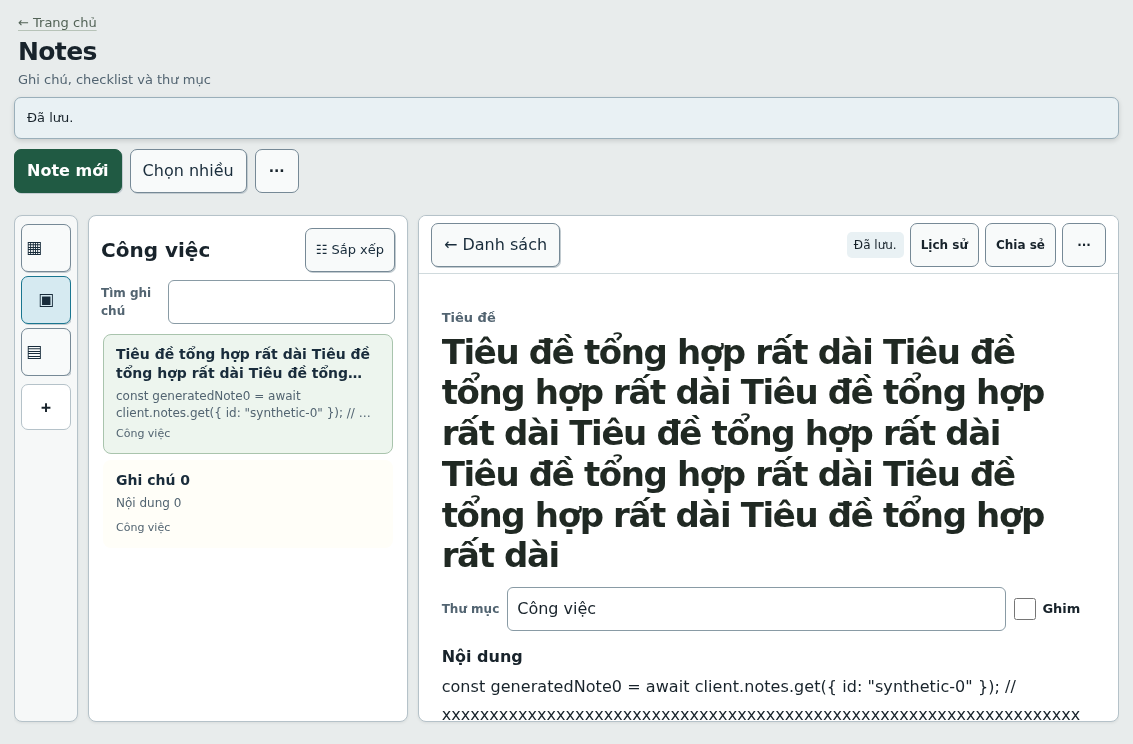
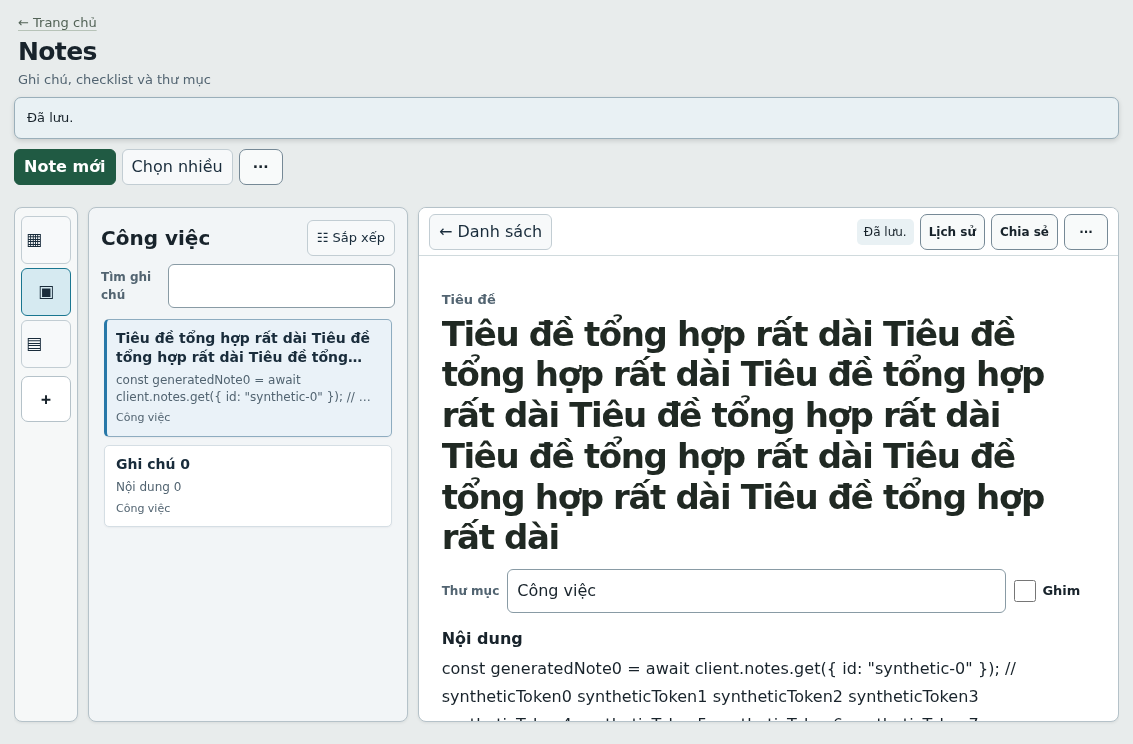
feat(ui): polish responsive notes experience
Polish responsive Notes controls, note cards, and overflow-safe action menus. Add production UI evidence and robust cross-viewport browser checks.

diff --git a/public/app.css b/public/app.css
@@ -1,14 +1,15 @@
 :root{font-family:system-ui,sans-serif;color:#18232b;background:#e8ecec;line-height:1.5;--ink:#18232b;--muted:#526471;--line:#c8d2d7;--paper:#fff;--green:#205a43;--focus:#007fa7;--safe-t:env(safe-area-inset-top,0px);--safe-b:env(safe-area-inset-bottom,0px);--keyboard-inset:0px;--nav-height:58px;color-scheme:light}
 *{box-sizing:border-box}html,body{width:100%;height:100%;margin:0}body{min-width:320px;overflow:hidden;background:#e8ecec}main{height:100dvh;min-height:0;display:flex;flex-direction:column;gap:8px;margin:0;padding:10px 14px 12px;max-width:none;overflow:hidden}header h1{margin:0;font-size:25px;line-height:1.2;letter-spacing:-.025em}header p{margin:3px 0 0;color:var(--muted);font-size:13px}.app-header{flex:0 0 auto;padding:0 4px}.home-link{display:inline-block;margin:0 0 4px;color:#536357;font-size:13px;text-decoration:underline;text-decoration-color:#b7c3b8;text-underline-offset:3px}.home-link:hover{color:var(--green)}a{color:#064f85}
-button,input,textarea,select{font:inherit}button{min-width:44px;min-height:44px;padding:8px 12px;border:1px solid #768996;border-radius:7px;background:#f8fafa;color:#192c3b;box-shadow:1px 1px 0 #c2cbd0;cursor:pointer}button:disabled{opacity:.55;cursor:default}button:hover:not(:disabled){background:#e1eef4}button:focus-visible,input:focus-visible,textarea:focus-visible,select:focus-visible,summary:focus-visible,a:focus-visible{outline:3px solid var(--focus);outline-offset:2px}input:not([type=checkbox]),textarea,select{width:100%;min-width:0;padding:9px;border:1px solid #899ba5;border-radius:6px;background:#fff;color:var(--ink)}input[type=checkbox]{width:22px;height:22px;vertical-align:middle;accent-color:#176077}textarea{overflow-wrap:anywhere;white-space:pre-wrap;word-break:break-word}label{display:block;margin:8px 0 4px;font-weight:550}summary{min-height:44px;display:flex;align-items:center;cursor:pointer;font-weight:600;list-style:none}summary::-webkit-details-marker{display:none}[hidden]{display:none!important}
+button,input,textarea,select{font:inherit}button{min-width:44px;min-height:44px;padding:7px 11px;border:1px solid #c2cdd3;border-radius:6px;background:#f7f9fa;color:#192c3b;box-shadow:none;cursor:pointer}button:disabled{opacity:.55;cursor:default}button:hover:not(:disabled){background:#e1eef4}button:focus-visible,input:focus-visible,textarea:focus-visible,select:focus-visible,summary:focus-visible,a:focus-visible{outline:3px solid var(--focus);outline-offset:2px}input:not([type=checkbox]),textarea,select{width:100%;min-width:0;padding:9px;border:1px solid #899ba5;border-radius:6px;background:#fff;color:var(--ink)}input[type=checkbox]{width:22px;height:22px;vertical-align:middle;accent-color:#176077}textarea{overflow-wrap:anywhere;white-space:pre-wrap;word-break:break-word}label{display:block;margin:8px 0 4px;font-weight:550}summary{min-height:44px;display:flex;align-items:center;cursor:pointer;font-weight:600;list-style:none}summary::-webkit-details-marker{display:none}[hidden]{display:none!important}
 #sync-banner{position:relative;z-index:50;flex:0 0 auto;min-height:42px;display:flex;align-items:center;background:#e9f1f4;border:1px solid #9aafba;border-radius:7px;padding:7px 12px;margin:0;box-shadow:0 2px 5px #0002;font-size:13px}#sync-progress{position:absolute;left:0;right:0;top:0;height:4px;border-radius:6px 6px 0 0;background:linear-gradient(90deg,#b6d5e5 0%,#197690 45%,#b6d5e5 100%);background-size:200% 100%;animation:sync-moving 1.2s linear infinite}@keyframes sync-moving{to{background-position:-200% 0}}@media(prefers-reduced-motion:reduce){#sync-progress{animation:none;background:#197690}}
 #login{flex:0 0 auto;max-width:460px;margin:16px auto;padding:20px}#login form{display:grid;gap:6px}#login button{margin-top:8px}
-#workspace{position:relative;flex:1 1 auto;min-height:0;display:grid;grid-template-columns:232px minmax(300px,340px) minmax(0,1fr);grid-template-rows:auto auto minmax(0,1fr) auto;align-items:stretch;gap:10px;overflow:hidden}.workspace-toolbar{grid-column:1/-1;grid-row:1;min-height:48px;display:flex;align-items:center;gap:8px;flex-wrap:wrap;margin:0}.workspace-toolbar #new{background:#205a43;color:#fff;border-color:#205a43;font-weight:650}.workspace-toolbar #new:hover{background:#174432}.workspace-toolbar #select-mode[aria-pressed=true]{background:#d6eaf1;border-color:#197690}.action-menu{position:relative;margin:0;padding:0;border:0;border-radius:0;background:transparent}.action-menu>summary{min-width:44px;justify-content:center;padding:0 10px;border:1px solid #768996;border-radius:7px;background:#f8fafa;font-size:14px}.action-menu>summary:hover{background:#e1eef4}.action-menu[open]>summary{background:#d6eaf1}.menu-panel{position:absolute;z-index:70;right:0;top:calc(100% + 5px);width:min(310px,calc(100vw - 32px));max-height:min(70dvh,620px);overflow:auto;padding:8px;border:1px solid #9aafba;border-radius:9px;background:#fff;box-shadow:0 8px 26px #14212c38}.menu-panel>button{display:block;width:100%;min-height:44px;margin:3px 0;text-align:left}.workspace-toolbar .menu-panel{min-width:220px}.workspace-toolbar .menu-panel button{margin:2px 0}#draft-panel{grid-column:1/-1;grid-row:2;min-width:0;max-height:26vh;overflow:auto;margin:0;padding:5px 10px;border:1px solid #b5c2c9;border-radius:7px;background:#f6f8f8;font-size:13px}#draft-panel:not([hidden]){display:block}#draft-panel>summary{min-height:36px}#draft-panel p{margin:4px 0}#draft-list{max-height:18vh;overflow:auto}.draft-row{padding:8px 0;border-bottom:1px solid #d0dadd;display:flex;gap:8px;align-items:center;flex-wrap:wrap}.draft-row span{flex:1;min-width:150px}
-.layout{display:contents}.layout>aside,#list-pane,#editor,#editor-empty{grid-row:3;min-width:0;min-height:0;margin:0;border:1px solid #b5c2c9;border-radius:8px;background:#fff;box-shadow:0 1px 3px #14212c14}.layout>aside{grid-column:1;display:flex;flex-direction:column;gap:8px;overflow:auto;padding:10px;background:#f6f8f8}.layout>aside>label,.layout>aside>.search-field{margin:0}#folder-list{min-height:0;display:flex;flex-direction:column;gap:4px;overflow:auto}.folder-row{display:flex;align-items:stretch;min-width:0}.folder-row>button:first-child{flex:1;min-width:0;overflow-wrap:anywhere;text-align:left}.folder-row .folder-share-badge{flex:0 0 44px;width:44px;padding:6px;margin-left:4px;text-align:center;color:#176077}#folder-panel #folder-list>button{width:100%;margin:0;text-align:left}#folder-panel [aria-pressed=true]{background:#d6eaf1;border-color:#197690;font-weight:650}#folder-controls{flex:0 0 auto;padding:4px 7px;border:1px solid #b5c2c9;border-radius:7px;background:#fff}#folder-controls>button,#folder-controls>input,#folder-controls>select{margin-top:8px}#folder-controls label{display:flex;align-items:center;gap:8px;margin:10px 0}#folder-controls input[type=checkbox]{flex:0 0 22px;width:22px}
-#list-pane{grid-column:2;display:flex;flex-direction:column;padding:12px;overflow:hidden}.list-mobile-top{display:none}.list-heading{flex:0 0 auto;display:flex;align-items:center;justify-content:space-between;gap:8px;flex-wrap:wrap;margin-bottom:8px}.list-heading h2{margin:0;font-size:20px}.list-heading #sort-toggle{min-height:44px;padding:6px 10px;font-size:13px}.list-heading #sort-toggle[aria-expanded=true]{background:#d6eaf1;border-color:#197690}#sort-mode:not([hidden]){display:block;flex:0 0 auto;width:min(100%,280px);margin:0 0 8px auto}.search-field{flex:0 0 auto;display:flex;align-items:center;gap:8px;margin:0 0 8px;color:#526471;font-size:12px}.search-field input{min-height:44px}.grid{min-height:0;flex:1;display:flex;flex-direction:column;gap:6px;overflow:auto;overscroll-behavior:contain;padding:2px 2px 14px}.card{position:relative;display:flex;flex:0 0 auto;width:100%;min-width:0;min-height:88px;max-height:142px;flex-direction:column;align-items:stretch;gap:3px;padding:10px 12px;overflow:hidden;border:1px solid transparent;border-radius:8px;background:#fffef8;text-align:left;box-shadow:none}.card:hover{background:#f4f8f6}.card strong{display:-webkit-box;overflow:hidden;-webkit-box-orient:vertical;-webkit-line-clamp:2;font-size:14px;line-height:1.35;font-weight:650;overflow-wrap:anywhere;white-space:normal}.card p{flex:1;min-width:0;margin:2px 0;overflow:hidden;display:-webkit-box;-webkit-box-orient:vertical;-webkit-line-clamp:2;color:#526471;font-size:12px;line-height:1.4;overflow-wrap:anywhere;white-space:pre-wrap}.card small{display:block;overflow:hidden;color:#526471;font-size:11px;text-overflow:ellipsis;white-space:nowrap}.card[aria-current=true]{background:#edf5ee;border-color:#a9c4ad}.card[aria-pressed=true]{border:2px solid #197690;background:#d9edf4}#bulk-toolbar{flex:0 0 auto;max-height:30vh;overflow:auto;margin:0 0 8px;padding:8px;border-radius:7px;background:#e1ebf0;gap:6px}#bulk-toolbar span{margin-right:auto}#bulk-toolbar label{margin:0}#bulk-toolbar select{width:auto;max-width:100%}#bulk-toolbar button{min-height:44px}
+#workspace{position:relative;flex:1 1 auto;min-height:0;display:grid;grid-template-columns:232px minmax(300px,340px) minmax(0,1fr);grid-template-rows:auto auto minmax(0,1fr) auto;align-items:stretch;gap:10px;overflow:hidden}.workspace-toolbar{grid-column:1/-1;grid-row:1;min-height:48px;display:flex;align-items:center;gap:8px;flex-wrap:wrap;margin:0}.workspace-toolbar #new{background:#205a43;color:#fff;border-color:#205a43;font-weight:650}.workspace-toolbar #new:hover{background:#174432}.workspace-toolbar #select-mode[aria-pressed=true]{background:#d6eaf1;border-color:#197690}.action-menu{position:relative;margin:0;padding:0;border:0;border-radius:0;background:transparent}.action-menu>summary{min-width:44px;justify-content:center;padding:0 10px;border:1px solid #768996;border-radius:7px;background:#f8fafa;font-size:14px}.action-menu>summary:hover{background:#e1eef4}.action-menu[open]>summary{background:#d6eaf1}.menu-panel{position:absolute;z-index:70;right:0;top:calc(100% + 5px);width:min(280px,calc(100vw - 24px));max-height:min(70dvh,620px);overflow:auto;padding:8px;border:1px solid #9aafba;border-radius:7px;background:#fff;box-shadow:0 8px 26px #14212c38}.menu-panel-portal{position:fixed;inset:auto;z-index:1000;width:min(280px,calc(100vw - 24px));min-width:min(220px,calc(100vw - 24px));max-width:calc(100vw - 24px);max-height:min(70dvh,calc(100dvh - 24px));overflow:auto;margin:0;padding:8px;border:1px solid #9aafba;border-radius:7px;background:#fff;box-shadow:0 8px 26px #14212c38}.menu-panel>button{display:block;width:100%;min-height:44px;margin:3px 0;text-align:left}.workspace-toolbar .menu-panel{min-width:220px}.workspace-toolbar .menu-panel button{margin:2px 0}#draft-panel{grid-column:1/-1;grid-row:2;min-width:0;max-height:26vh;overflow:auto;margin:0;padding:5px 10px;border:1px solid #b5c2c9;border-radius:7px;background:#f6f8f8;font-size:13px}#draft-panel:not([hidden]){display:block}#draft-panel>summary{min-height:36px}#draft-panel p{margin:4px 0}#draft-list{max-height:18vh;overflow:auto}.draft-row{padding:8px 0;border-bottom:1px solid #d0dadd;display:flex;gap:8px;align-items:center;flex-wrap:wrap}.draft-row span{flex:1;min-width:150px}
+.layout{display:contents}.layout>aside,#list-pane,#editor,#editor-empty{grid-row:3;min-width:0;min-height:0;margin:0;border:1px solid #b5c2c9;border-radius:8px;background:#fff;box-shadow:0 1px 3px #14212c14}#list-pane{background:#f2f5f7}.layout>aside{grid-column:1;display:flex;flex-direction:column;gap:8px;overflow:auto;padding:10px;background:#f6f8f8}.layout>aside>label,.layout>aside>.search-field{margin:0}#folder-list{min-height:0;display:flex;flex-direction:column;gap:4px;overflow:auto}.folder-row{display:flex;align-items:stretch;min-width:0}.folder-row>button:first-child{flex:1;min-width:0;overflow-wrap:anywhere;text-align:left}.folder-row .folder-share-badge{flex:0 0 44px;width:44px;padding:6px;margin-left:4px;text-align:center;color:#176077}#folder-panel #folder-list>button{width:100%;margin:0;text-align:left}#folder-panel [aria-pressed=true]{background:#d6eaf1;border-color:#197690;font-weight:650}#folder-controls{flex:0 0 auto;padding:4px 7px;border:1px solid #b5c2c9;border-radius:7px;background:#fff}#folder-controls>button,#folder-controls>input,#folder-controls>select{margin-top:8px}#folder-controls label{display:flex;align-items:center;gap:8px;margin:10px 0}#folder-controls input[type=checkbox]{flex:0 0 22px;width:22px}
+#list-pane{grid-column:2;display:flex;flex-direction:column;padding:12px;overflow:hidden}.list-mobile-top{display:none}.list-heading{flex:0 0 auto;display:flex;align-items:center;justify-content:space-between;gap:8px;flex-wrap:wrap;margin-bottom:8px}.list-heading h2{margin:0;font-size:20px}.list-heading #sort-toggle{min-height:44px;padding:6px 10px;font-size:13px}.list-heading #sort-toggle[aria-expanded=true]{background:#d6eaf1;border-color:#197690}#sort-mode:not([hidden]){display:block;flex:0 0 auto;width:min(100%,280px);margin:0 0 8px auto}.search-field{flex:0 0 auto;display:flex;align-items:center;gap:8px;margin:0 0 8px;color:#526471;font-size:12px}.search-field input{min-height:44px}.grid{min-height:0;flex:1;display:flex;flex-direction:column;gap:8px;overflow:auto;overscroll-behavior:contain;padding:3px 3px 14px}.card{position:relative;display:flex;flex:0 0 auto;width:100%;min-width:0;min-height:76px;flex-direction:column;align-items:stretch;gap:3px;padding:9px 11px;overflow:hidden;border:1px solid #d5dee4;border-radius:5px;background:#fff;text-align:left;box-shadow:0 1px 2px #14212c0b}.card:hover{background:#f3f7fa;border-color:#b7c8d3}.card strong{display:-webkit-box;overflow:hidden;-webkit-box-orient:vertical;-webkit-line-clamp:2;font-size:14px;line-height:1.35;font-weight:650;overflow-wrap:anywhere;white-space:normal}.card p{flex:1;min-width:0;margin:2px 0;overflow:hidden;display:-webkit-box;-webkit-box-orient:vertical;-webkit-line-clamp:2;color:#526471;font-size:12px;line-height:1.4;overflow-wrap:anywhere;white-space:pre-wrap}.card small{display:block;overflow:hidden;color:#526471;font-size:11px;text-overflow:ellipsis;white-space:nowrap}.card[aria-current=true]{background:#eaf2f8;border-color:#8eacc0;border-left:3px solid #2878a8;padding-left:9px}.card[aria-pressed=true]{border:2px solid #176b8d;background:#deeff7;padding:8px 10px}.card[aria-current=true][aria-pressed=true]{box-shadow:inset 4px 0 #205a43}#bulk-toolbar{flex:0 0 auto;max-height:30vh;overflow:auto;margin:0 0 8px;padding:8px;border-radius:7px;background:#e1ebf0;gap:6px}#bulk-toolbar span{margin-right:auto}#bulk-toolbar label{margin:0}#bulk-toolbar select{width:auto;max-width:100%}#bulk-toolbar button{min-height:44px}
 #editor-empty{grid-column:3;display:grid;place-items:center;padding:24px;color:#526471;text-align:center}#editor{grid-column:3;display:flex;flex-direction:column;overflow:hidden;padding:0}#editor[hidden]{display:none!important}.editor-top{position:relative;z-index:20;flex:0 0 auto;min-height:58px;display:flex;align-items:center;gap:6px;padding:6px 12px;border-bottom:1px solid #d0dadd;background:#fff}.editor-top #close-editor{margin-right:auto}.editor-top #save-status{flex:0 1 auto;min-width:0;max-width:36%;margin:0;padding:4px 7px;border:0;border-radius:5px;background:#e9f1f4;font-size:12px;overflow-wrap:anywhere}.editor-top #save-status[data-state=error],.editor-top #save-status[data-state=conflict],.editor-top #save-status[data-state=local-error]{background:#fff0e9;color:#752e1a}.editor-top .action-menu>summary{font-size:12px}.history-menu{width:min(350px,calc(100vw - 32px))}.history-menu label{font-size:13px}.editor-scroll{min-height:0;flex:1;overflow:auto;overscroll-behavior:contain;scrollbar-gutter:stable}.editor-content{width:min(100%,900px);min-height:100%;margin:0 auto;padding:26px clamp(24px,5vw,76px) 40px}.editor-content>label{margin:8px 0 4px}.editor-content>label[for=title]{font-size:13px;color:#526471}.editor-content textarea#title{display:block;min-height:1.45em;overflow-y:hidden;resize:none;padding:0;border:0;background:transparent;font-size:clamp(25px,3vw,36px);font-weight:700;line-height:1.2;letter-spacing:-.04em;color:#202923;box-shadow:none}.note-meta{display:flex;align-items:center;gap:8px;margin:10px 0 14px}.note-meta>label:first-child{margin:0;color:#526471;font-size:12px}.note-meta>input{flex:1;min-width:100px;min-height:44px}.note-meta #pin-label{display:flex;align-items:center;gap:6px;margin:0;white-space:nowrap;font-size:13px}.note-meta #pin-label input{width:22px;height:22px;margin:0}#text{display:block;width:100%;min-height:min(58vh,620px);resize:none;border:0;background:transparent;padding:0;font-size:16px;line-height:1.75;letter-spacing:.004em;box-shadow:none}.check-row{display:grid;grid-template-columns:30px minmax(0,1fr) 44px;gap:7px;align-items:center;margin:7px 0}.check-row textarea{min-height:44px;resize:vertical}.check-row.done textarea{text-decoration:line-through;color:#64756e}.check-row button{width:44px;height:44px;padding:0}.editor-content #add-check{margin-top:8px}.editor-save-toolbar{margin:16px 0 0;padding-top:10px;border-top:1px solid #d0dadd}.editor-save-toolbar #save{background:#205a43;color:white;border-color:#205a43;font-weight:650}.editor-content #copy-status{min-height:1.2em;margin:5px 0;color:#176077;font-size:13px}.editor-content #conflict{margin:12px 0;padding:12px;border:1px solid #c99147;border-radius:7px;background:#fff3d8}.editor-content #conflict p{margin:0 0 8px}.editor-content #conflict button{margin:4px}.editor-history .menu-panel{min-width:240px}#editor-more #delete{color:#8c3026;border-color:#dbb0aa;background:#fff7f5}#editor-more #delete:hover{background:#ffebe7}#editor-more #copy,#editor-more #clear,#editor-more #undo{color:#192c3b}
 #share-result{grid-column:2/-1;grid-row:4;max-height:30vh;overflow:auto;margin:0;padding:12px;border:1px solid #b5c2c9;border-radius:8px;background:#fff}#share-result h2{margin:0 0 4px;font-size:18px}#share-result p{margin:4px 0 8px}#share-result input{max-width:560px}#share-result>button{margin:4px}#share-new-link[hidden]{display:none!important}#share-list,#all-shares{min-width:0}.share-row{padding:8px 0;border-bottom:1px solid #d0dadd;display:flex;gap:8px;align-items:center;flex-wrap:wrap}.share-row>span{flex:1;min-width:150px}.share-link-tools{display:flex;flex-wrap:wrap;gap:8px;align-items:center;flex-basis:100%;min-width:0}.share-link-tools input{flex:1 1 180px;min-width:0}.share-link-tools small{flex-basis:100%;overflow-wrap:anywhere;color:#176077}#copy-status,#share-copy-status{min-height:1.25em;color:#176077}
 #mobile-nav{display:none}.mobile-editor-active #editor-empty{display:none}
+@media (pointer:fine) and (not (any-pointer:coarse)) and (min-width:961px){button{min-width:36px;min-height:36px;padding:5px 9px;border-radius:6px}.action-menu>summary{min-height:36px;padding:0 8px}.workspace-toolbar{min-height:40px;gap:6px}.editor-top{min-height:48px;padding:4px 10px}.list-heading #sort-toggle{min-height:36px;padding:5px 9px}}
 @media(min-width:961px) and (max-width:1200px){#workspace{grid-template-columns:64px minmax(290px,320px) minmax(0,1fr)}.editor-content{padding-inline:clamp(20px,2vw,28px)}.layout>aside{padding:8px 6px}.layout>aside #folder-list>button,.layout>aside .folder-row>button:first-child{position:relative;justify-content:center;min-height:48px;padding:6px 4px;font-size:0;text-align:center}.layout>aside #folder-list>button::before,.layout>aside .folder-row>button:first-child::before{content:'▣';font-size:17px}.layout>aside #folder-list>button[aria-label="Tất cả"]::before{content:'▦'}.layout>aside #folder-list>button[aria-label="Thùng rác"]::before{content:'▤'}.layout>aside .folder-row .folder-share-badge{flex-basis:44px}.layout>aside #folder-controls>summary{overflow:hidden;justify-content:center;font-size:0}.layout>aside #folder-controls>summary::before{content:'＋';font-size:18px}.layout>aside #folder-controls:not([open]){padding:0 4px}.layout>aside #folder-controls[open]{position:absolute;z-index:60;left:66px;bottom:10px;width:min(320px,calc(100vw - 90px));padding:10px}.layout>aside #folder-controls[open]>summary{font-size:14px;justify-content:flex-start}.layout>aside #folder-controls[open]>summary::before{content:none}}
 @media(max-width:960px){main{padding:calc(8px + var(--safe-t)) 10px 0;gap:6px}header h1{font-size:22px}.app-header{padding:0 3px}.app-header p{display:none}#sync-banner{min-height:38px;padding:6px 10px;font-size:12px}#workspace{grid-template-columns:minmax(0,1fr);grid-template-rows:auto auto minmax(0,1fr) auto;gap:7px;overflow:visible}.workspace-toolbar{grid-column:1;grid-row:1;flex-wrap:nowrap;gap:6px}.workspace-toolbar #new{display:none}.workspace-toolbar #select-mode{margin-right:auto}.layout{display:contents}.layout>aside{display:none;position:fixed;z-index:82;top:0;bottom:0;left:0;width:min(84vw,330px);max-height:100dvh;padding:calc(14px + var(--safe-t)) 12px calc(14px + var(--safe-b));border-radius:0 10px 10px 0;box-shadow:10px 0 34px #12202e35}.folder-drawer-open .layout>aside{display:flex}.layout>aside #folder-list{overflow:auto}.layout>aside #folder-list>button,.layout>aside .folder-row>button:first-child{font-size:14px;justify-content:flex-start;text-align:left}.layout>aside #folder-list>button::before,.layout>aside .folder-row>button:first-child::before{content:none}.layout>aside #folder-controls>summary{font-size:14px;justify-content:flex-start}.layout>aside #folder-controls>summary::before{content:none}#list-pane{grid-column:1;grid-row:3;min-height:0;padding:10px;border-radius:8px}.list-mobile-top{flex:0 0 auto;display:flex;align-items:center;gap:8px;min-height:44px;margin:0 0 5px}.list-mobile-top strong{font-size:17px}.list-mobile-top #folder-drawer-toggle{margin-left:-5px}.list-mobile-top #mobile-new{margin-left:auto;background:#205a43;color:#fff;border-color:#205a43;font-size:19px}.list-heading h2{font-size:17px}.list-heading{margin-bottom:5px}.search-field{display:block;margin-bottom:7px}.search-field input{display:block;margin-top:3px}#bulk-toolbar{max-height:22vh}.grid{padding-bottom:calc(14px + var(--nav-height))}#editor-empty{display:none}#editor{grid-column:1;grid-row:3;display:none;position:relative;min-height:0;border-radius:8px}.mobile-editor-active #list-pane{display:none}.mobile-editor-active #editor:not([hidden]){display:flex}.editor-top{min-height:54px;padding:5px 7px;gap:4px;flex-wrap:nowrap}.editor-top #close-editor{flex:0 0 auto;margin-right:auto;padding:7px 8px;white-space:nowrap}.editor-top #save-status{flex:0 1 auto;max-width:42%;font-size:11px}.editor-top .action-menu>summary{padding:0 6px;font-size:12px}.editor-top #editor-more>summary{font-size:20px;letter-spacing:1px}.editor-content{width:min(100%,900px);padding:18px clamp(18px,4.5vw,44px) calc(30px + var(--safe-b))}.editor-content textarea#title{font-size:27px}.note-meta{margin:7px 0 10px}.editor-content>label{margin-top:6px}.editor-content textarea#text{min-height:max(180px,calc(100dvh - 310px));font-size:16px;line-height:1.7}#share-result{grid-column:1;grid-row:4;max-height:22vh}#mobile-nav{position:fixed;z-index:75;left:0;right:0;bottom:var(--keyboard-inset);display:flex;justify-content:space-around;gap:4px;min-height:calc(var(--nav-height) + var(--safe-b));padding:4px 8px calc(4px + var(--safe-b));border-top:1px solid #c8d2d7;background:#fff}#mobile-nav button{display:flex;flex:1;min-width:70px;min-height:48px;flex-direction:column;align-items:center;justify-content:center;gap:0;padding:3px 5px;border-color:transparent;background:transparent;box-shadow:none;color:#526471;font-size:16px}#mobile-nav button span:last-child{font-size:10px;line-height:1.2}#mobile-nav button.active{color:#205a43;font-weight:650}main{padding-bottom:calc(var(--nav-height) + var(--safe-b) + var(--keyboard-inset) + 4px)}#drawer-backdrop:not([hidden]){position:fixed;z-index:81;inset:0;display:block;width:100%;height:100%;border:0;border-radius:0;background:#101a22a3;box-shadow:none}}
 @media(max-width:700px){.app-header .home-link{margin-bottom:2px;font-size:12px}.app-header h1{font-size:20px}#sync-banner{min-height:36px}.workspace-toolbar #select-mode{font-size:13px}.workspace-toolbar #workspace-actions>summary{width:48px;height:44px}.menu-panel{position:fixed;right:10px;top:auto;bottom:calc(var(--nav-height) + var(--safe-b) + 8px);max-height:min(65dvh,540px)}.layout>aside{width:min(84vw,310px)}#list-pane{padding:8px}.list-heading #sort-toggle{font-size:12px;padding-inline:7px}.card{min-height:82px;max-height:116px;padding:9px 10px}#bulk-toolbar{gap:5px;padding:6px}.editor-top{min-height:52px}.editor-top #save-status{max-width:40%;padding-inline:4px}.editor-top .action-menu>summary{min-width:44px}.editor-content{padding-inline:18px}.note-meta{flex-wrap:wrap}.note-meta>label:first-child{flex:0 0 auto}.note-meta>input{flex:1 1 130px}#share-result{padding:9px}.action-menu .menu-panel{right:6px}}

diff --git a/public/app.js b/public/app.js
@@ -6,6 +6,34 @@ let active=null,notes=[],folders=[],folder='',scope='owner',shared=null,api=appA
 let sortMode='updated-desc',noteOrder=[],orderRevision=null,organizing=false,sortOpen=false;
 let sharedFolders=new Set(),folderShareSequence=0;
 let inTrash=false,trashNotes=[],refreshQueued=false;const trashSelection=new Map();const contentCache=new Map();const cache=new NoteCache();let cacheScope=null,cacheState={notes:[],folders:[],content:{}};
+const actionMenuPortals=new Map();
+function positionActionMenu(menu,panel){
+ const anchor=menu.querySelector(':scope > summary')?.getBoundingClientRect();if(!anchor)return;
+ const zoom=Number.parseFloat(getComputedStyle(document.documentElement).zoom)||1,vv=window.visualViewport,left=vv?.offsetLeft??0,top=vv?.offsetTop??0,right=left+(vv?.width??document.documentElement.clientWidth),bottom=top+(vv?.height??document.documentElement.clientHeight),gap=8;
+ panel.style.left='0px';panel.style.top='0px';panel.style.right='auto';panel.style.bottom='auto';
+ const width=panel.getBoundingClientRect().width,spaceBelow=bottom-anchor.bottom-gap,spaceAbove=anchor.top-top-gap,needed=panel.scrollHeight*zoom,useBelow=needed<=spaceBelow||spaceBelow>=spaceAbove,space=useBelow?spaceBelow:spaceAbove;
+ panel.style.maxHeight=Math.max(72,Math.min(620,(space-gap)/zoom))+'px';
+ const height=panel.getBoundingClientRect().height;let x=anchor.right-width;
+ if(x<left+gap&&anchor.left+width<=right-gap)x=anchor.left;
+ x=Math.max(left+gap,Math.min(x,right-width-gap));
+ let y=useBelow?anchor.bottom+gap:anchor.top-height-gap;
+ y=Math.max(top+gap,Math.min(y,bottom-height-gap));
+ panel.style.left=Math.round(x/zoom)+'px';panel.style.top=Math.round(y/zoom)+'px';
+}
+function repositionOpenActionMenus(){for(const {menu,panel} of actionMenuPortals.values())if(menu.open)positionActionMenu(menu,panel);}
+function installActionMenuPortals(){
+ for(const menu of document.querySelectorAll('.action-menu')){
+  const panel=menu.querySelector(':scope > .menu-panel'),summary=menu.querySelector(':scope > summary');if(!panel||!summary)continue;
+  panel.classList.add('menu-panel-portal');panel.dataset.menuOwner=menu.id;summary.setAttribute('aria-controls',panel.id||`${menu.id}-panel`);if(!panel.id)panel.id=`${menu.id}-panel`;
+  panel.hidden=!menu.open;document.body.append(panel);actionMenuPortals.set(menu.id,{menu,panel,summary});
+  menu.addEventListener('toggle',()=>{panel.hidden=!menu.open;if(menu.open)positionActionMenu(menu,panel);});
+  summary.addEventListener('keydown',event=>{if(event.key==='ArrowDown'&&!menu.open){event.preventDefault();menu.open=true;setTimeout(()=>panel.querySelector('button:not([disabled]),input:not([disabled]),select:not([disabled])')?.focus({preventScroll:true}),0);}else if(event.key==='Tab'&&menu.open&&!event.shiftKey){const first=panel.querySelector('button:not([disabled]),input:not([disabled]),select:not([disabled])');if(first){event.preventDefault();first.focus();}}});
+  panel.addEventListener('keydown',event=>{if(event.key!=='Tab')return;const items=[...panel.querySelectorAll('button:not([disabled]),input:not([disabled]),select:not([disabled]),a[href]')].filter(item=>item.getClientRects().length);if(!items.length)return;if(event.shiftKey&&document.activeElement===items[0]){event.preventDefault();summary.focus({preventScroll:true});}else if(!event.shiftKey&&document.activeElement===items.at(-1)){event.preventDefault();menu.open=false;const all=[...document.querySelectorAll('button:not([disabled]),summary:not([aria-disabled=true]),input:not([disabled]),select:not([disabled]),a[href]')].filter(item=>item.getClientRects().length);const index=all.indexOf(summary);all[index+1]?.focus({preventScroll:true});}});
+ }
+ document.addEventListener('scroll',repositionOpenActionMenus,true);window.addEventListener('resize',repositionOpenActionMenus);window.visualViewport?.addEventListener('resize',repositionOpenActionMenus);window.visualViewport?.addEventListener('scroll',repositionOpenActionMenus);
+ document.addEventListener('pointerdown',event=>{for(const {menu,panel} of actionMenuPortals.values())if(menu.open&&!menu.contains(event.target)&&!panel.contains(event.target))menu.open=false;});
+ document.addEventListener('click',event=>{const panel=event.target.closest?.('.menu-panel-portal');if(!panel||!event.target.closest('button,a[href]'))return;const menu=actionMenuPortals.get(panel.dataset.menuOwner)?.menu;if(menu?.open)menu.open=false;});
+}
 async function cacheAuth(state){sharedFolders.clear();state??=await api('auth');if(!state.authenticated)throw Object.assign(Error('LOGIN_REQUIRED'),{status:401});cacheScope=state.cacheScope;cacheState=await cache.get(cacheScope).catch(()=>null)??{notes:[],folders:[],content:{}};contentCache.clear();sortMode=sortModes.includes(cacheState.sortMode)?cacheState.sortMode:'updated-desc';noteOrder=cacheState.order??[];orderRevision=cacheState.orderRevision??null;notes=cacheState.notes;folders=cacheState.folders;render();}
 async function cacheList(){if(shared||!cacheScope||inTrash)return;cacheState={...cacheState,notes:clone(notes),folders:clone(folders),sortMode,order:noteOrder,orderRevision};await cache.put(cacheScope,cacheState).catch(()=>{});}
 const status=text=>$('global-status').textContent=text;
@@ -57,11 +85,12 @@ async function restoreDraft(d){openSequence++;await hold();const old=sessions.ge
 function visibleNotes(){if(inTrash)return trashNotes;const q=$('search').value.toLocaleLowerCase('vi');return sortNotes(notes,sortMode,noteOrder).filter(n=>(inTrash||!folder||n.folder===folder)&&[n.title,n.text,n.folder].some(v=>String(v??'').toLocaleLowerCase('vi').includes(q)));}
 function selectionUI(){$('select-all').disabled=organizing;$('deselect-all').disabled=organizing||!selected.size;$('sort-mode').disabled=organizing;$('select-mode').disabled=organizing;$('cancel-select').disabled=organizing;$('sort-mode').value=sortMode;$('sort-toggle').disabled=organizing;$('sort-toggle').setAttribute('aria-expanded',String(sortOpen));$('sort-mode').hidden=!sortOpen;for(const id of ['move-label','move-folder','bulk-move'])$(id).hidden=inTrash||!!shared;$('bulk-move').disabled=!selected.size||organizing;for(const id of ['order-up','order-down']){$(id).hidden=inTrash||!!shared||sortMode!=='custom';$(id).disabled=!selected.size||organizing;}$('sort-mode').querySelector('[value=custom]').disabled=!!shared;$('bulk-toolbar').hidden=!selecting;$('bulk-delete').hidden=inTrash;$('bulk-restore').hidden=!inTrash;$('bulk-restore').disabled=organizing||!selected.size;$('bulk-purge').hidden=!inTrash||!!shared;$('bulk-purge').disabled=organizing||!selected.size;$('cancel-select').hidden=inTrash;$('new').hidden=inTrash||!!shared&&(!canEdit||shared.kind==='note');$('mobile-new').hidden=inTrash||!!shared&&(!canEdit||shared.kind==='note');$('select-mode').hidden=inTrash||!!shared;$('select-mode').setAttribute('aria-pressed',String(selecting));$('selected-count').textContent=selected.size+' Note đã chọn';$('bulk-delete').disabled=organizing||!selected.size;}
 function render(){
- const q=$('search').value.toLocaleLowerCase('vi');$('note-list').replaceChildren();
+ const q=$('search').value.toLocaleLowerCase('vi'),listRoot=$('note-list'),scrollTop=listRoot.scrollTop,focusedNote=document.activeElement?.matches?.('.card[data-note]')?document.activeElement.dataset.note:null;listRoot.replaceChildren();
  const list=visibleNotes();
  $('list-title').textContent=inTrash?'Thùng rác':folder||'Tất cả ghi chú';
  for(const n of list){if(inTrash){const card=document.createElement('div');card.className='card';const label=document.createElement('label'),tick=document.createElement('input'),preview=document.createElement('p');tick.type='checkbox';tick.checked=selected.has(n.id);tick.setAttribute('aria-label','Chọn '+n.title);tick.addEventListener('change',()=>{if(tick.checked){selected.add(n.id);trashSelection.set(n.id,n);}else{selected.delete(n.id);trashSelection.delete(n.id);}selectionUI();});label.append(tick,document.createTextNode(' '+n.title));preview.textContent=n.text;card.append(label,preview);if(n.purging){const info=document.createElement('small');info.textContent='Đang xóa · chọn Xóa vĩnh viễn để tiếp tục.';card.append(info);}else card.append(button('Xem nội dung',()=>openTrash(n.id)));$('note-list').append(card);continue;}const b=button('',()=>{if(!selecting)return openNote(n.id);selected.has(n.id)?selected.delete(n.id):selected.add(n.id);render();});b.className='card';b.dataset.note=n.id;b.setAttribute('aria-current',String(active?.note.id===n.id));if(selecting)b.setAttribute('aria-pressed',String(selected.has(n.id)));const title=document.createElement('strong'),text=document.createElement('p'),meta=document.createElement('small');title.textContent=(n.pinned?'📌 ':'')+n.title;text.textContent=n.text;meta.textContent=n.folder||'Chưa phân loại';b.append(title,text,meta);$('note-list').append(b);}
  if(!list.length){const p=document.createElement('p');p.textContent=notes.length?'Không có kết quả phù hợp.':'Chưa có Note trong kho này.';$('note-list').append(p);}
+ listRoot.scrollTop=scrollTop;if(focusedNote){const replacement=[...listRoot.querySelectorAll('.card[data-note]')].find(card=>card.dataset.note===focusedNote);replacement?.focus({preventScroll:true});}
  selectionUI();const folderButton=(label,kind,handler)=>{const b=button('',handler),text=document.createElement('span');b.dataset.kind=kind;b.setAttribute('aria-label',label);text.className='folder-label';text.textContent=label;b.append(text);return b;};
  $('folder-list').replaceChildren(folderButton('Tất cả','all',()=>{if(inTrash)$('editor').hidden=true;inTrash=false;selecting=false;selected.clear();folder='';closeFolderDrawer();showListSurface();render();return refresh();}));
  for(const f of folders){const b=folderButton(f,'folder',()=>{if(inTrash)$('editor').hidden=true;inTrash=false;selecting=false;selected.clear();folder=f;closeFolderDrawer();showListSurface();render();return refresh();});b.setAttribute('aria-pressed',String(folder===f));const row=document.createElement('div');row.className='folder-row';row.append(b);if(!shared&&sharedFolders.has(f)){const badge=button('🔗',()=>{closeFolderDrawer();showFolderShares(f);});badge.className='folder-share-badge';badge.title='Đang chia sẻ · quản lý liên kết';badge.setAttribute('aria-label','Quản lý chia sẻ thư mục '+f);row.append(badge);}$('folder-list').append(row);}
@@ -186,7 +215,7 @@ function updateViewportLayout(){resizeTitle();const viewport=window.visualViewpo
 window.visualViewport?.addEventListener('resize',updateViewportLayout);window.addEventListener('resize',updateViewportLayout);window.addEventListener('orientationchange',updateViewportLayout);updateViewportLayout();
 document.addEventListener('focusin',event=>{if(innerWidth<=960&&$('editor').contains(event.target))requestAnimationFrame(()=>event.target.scrollIntoView({block:'nearest',inline:'nearest'}));});
 document.addEventListener('keydown',event=>{if(event.key!=='Escape'&&!(event.key==='Tab'&&$('workspace').classList.contains('folder-drawer-open')))return;const panel=$('folder-panel');if(event.key==='Tab'&&$('workspace').classList.contains('folder-drawer-open')){const items=[...panel.querySelectorAll('button:not([disabled]),input:not([disabled]),select:not([disabled]),summary')].filter(el=>el.getClientRects().length);if(items.length){const first=items[0],last=items.at(-1);if(event.shiftKey&&document.activeElement===first){event.preventDefault();last.focus();}else if(!event.shiftKey&&document.activeElement===last){event.preventDefault();first.focus();}}return;}if(event.key==='Escape'){if($('workspace').classList.contains('folder-drawer-open')){event.preventDefault();closeFolderDrawer();return;}const opened=[...document.querySelectorAll('#workspace details[open],#editor details[open]')].at(-1);if(opened){event.preventDefault();opened.removeAttribute('open');opened.querySelector('summary')?.focus({preventScroll:true});return;}if(innerWidth<=960&&$('workspace').classList.contains('mobile-editor-active')){$('close-editor').click();}}});
-document.addEventListener('pointerdown',event=>{for(const menu of document.querySelectorAll('#workspace details[open],#editor details[open]'))if(!menu.contains(event.target))menu.removeAttribute('open');});
+
 addEventListener('online',()=>{boot().then(()=>{if(active?.dirty&&active.status!=='conflict')save();});});addEventListener('offline',()=>status('Ngoại tuyến · tiếp tục gõ, bản nháp được giữ trên thiết bị.'));
 addEventListener('beforeunload',e=>{if(active?.dirty){e.preventDefault();e.returnValue='';}});addEventListener('pagehide',()=>{if(active?.dirty)active.persist().catch(()=>{});});
 addEventListener('hashchange',()=>location.reload());
@@ -208,5 +237,6 @@ async function backgroundRefresh(){
 function scheduleBackgroundRefresh(){setTimeout(async()=>{try{await backgroundRefresh();}finally{scheduleBackgroundRefresh();}},60000+Math.floor(Math.random()*10000));}
 scheduleBackgroundRefresh();
 document.addEventListener('visibilitychange',()=>{if(!document.hidden&&shared){if(backgroundBlocked()||active?.dirty)checkShareAccess();else refresh({background:true,security:true});}});
+installActionMenuPortals();
 boot();
 

diff --git a/docs/RESPONSIVE-UI-INTEGRATION-20261029.md b/docs/RESPONSIVE-UI-INTEGRATION-20261029.md
@@ -57,3 +57,31 @@ Before deployment, the canonical project was `hunghvt-notes` (`prj_c4sEp6nB4msWT
 - The two filtered Gemini rounds are recorded above. After those capped review rounds, CI surfaced the Search-from-Trash bug, which was corrected and covered by the successful final browser run; no Notes content, credentials, session, or repository diff was sent to Gemini. The production report commit is docs-only and does not change deployed application code.
 
 The Chromium screenshots are not Safari, physical iPad/iPhone, native keyboard, or live Firestore verification. A person should still open the deployed URL on an iPhone/iPad, type in a long title and note, rotate while the caret is in each field, show/hide the keyboard, and try safe-area scrolling, drawer/menu taps, search, trash and restore. No real Notes were used by the browser fixture.
+
+## Notes list, actions, and backup menu polish — 2026-10-29
+
+Work started from fetched remote `main` `0e3ee81759fb340b5e675aa5034d1e115b6eb326` in a clean dedicated worktree. The previous Production checkpoint before this change was deployment `dpl_7Y9AiUP9uutwVXedkypQ6se9auec`, READY from app SHA `f7b0544194d0f71f66307d35e5eb35d5bf2c853b`; both Production aliases pointed to it. This is the recorded rollback target.
+
+The global button surface is lighter. Fine-pointer desktop buttons are 36 px compact controls; coarse-pointer phone/tablet controls retain 44 px minimum targets. Primary creation/save actions keep their emphasis. The note list now has a light gray field with individual white, thin-bordered, compact rectangular cards; title, preview, and metadata have distinct hierarchy. Hover/focus, active-note, and multi-select states use separate colors/borders. Rendering preserves list scroll offset, focused card, and selection set. The current app only defines a light theme; browser fixture checks both light and dark OS preferences and confirms card/list backgrounds remain distinct.
+
+### Backup menu root cause and fix
+
+At 1440×900, before the fix, Chromium measured the menu at x=−11.34, y=198, size 310×112 px, outside the viewport. Its `position:absolute; right:0` was aligned to the workspace action `<details>` at x=254.66, so a panel wider than the control extended left past the viewport. It was also inside `#workspace` with `overflow:hidden`. See [baseline measurements](RESPONSIVE-UI-PRODUCTION-20261029/action-menu-baseline.json), [before list](RESPONSIVE-UI-PRODUCTION-20261029/notes-list-before-1440x900.png), and [before menu](RESPONSIVE-UI-PRODUCTION-20261029/action-menu-before-1440x900.png).
+
+All action panels now portal to `body`. The anchor’s current bounding box and visual viewport determine left/right and above/below placement. Width and height are capped to available viewport space; long panels scroll internally. Position refreshes on window/visual viewport resize and captured container scroll. Outside pointer closes the panel, Escape closes and returns focus, and keyboard activation/Tab can enter the panel. The backup API, filename/data serialization and snapshot scope were not changed. The synthetic backup action still downloads the expected JSON filename and does not mutate fixture Notes.
+
+After-fix evidence: [menu screenshot](RESPONSIVE-UI-PRODUCTION-20261029/responsive-actions-after-1440x900.png) and [menu bounds at viewport edges, scroll, and zoom](RESPONSIVE-UI-PRODUCTION-20261029/action-menu-measurements.json). Browser assertions confirmed every panel edge stayed inside both the 1152×720 and 960×600 CSS layout viewports (the effective viewport widths at 125% and 150% zoom from 1440×900), and the 1440×900 viewport at CSS zoom 100%, 125%, and 150%, including an anchor at the bottom-right. Menu size grew in rendered pixels under CSS zoom and stayed inside the viewport. The panel also followed the anchor after a scroll event. The runner emulates these zoom conditions; it does not change native Chromium browser zoom.
+
+### Responsive evidence and checks
+
+List screenshots before/after: [before, 1440×900](RESPONSIVE-UI-PRODUCTION-20261029/notes-list-before-1440x900.png); after at [390×844](RESPONSIVE-UI-PRODUCTION-20261029/notes-list-after-390x844.png), [744×1133](RESPONSIVE-UI-PRODUCTION-20261029/notes-list-after-744x1133.png), [1133×744](RESPONSIVE-UI-PRODUCTION-20261029/notes-list-after-1133x744.png), [1280×720](RESPONSIVE-UI-PRODUCTION-20261029/notes-list-after-1280x720.png), [1440×900](RESPONSIVE-UI-PRODUCTION-20261029/notes-list-after-1440x900.png), and [1920×1080](RESPONSIVE-UI-PRODUCTION-20261029/notes-list-after-1920x1080.png). Touch-emulated phone/tablet captures are also saved for [390×844](RESPONSIVE-UI-PRODUCTION-20261029/notes-list-touch-390x844.png), [744×1133](RESPONSIVE-UI-PRODUCTION-20261029/notes-list-touch-744x1133.png), and [1133×744](RESPONSIVE-UI-PRODUCTION-20261029/notes-list-touch-1133x744.png). Editor/textarea widths for all six viewports are in [layout measurements](RESPONSIVE-UI-PRODUCTION-20261029/layout-measurements.json).
+
+- `npm run check:source`: PASS, 48 JS modules.
+- `npm test`: PASS, 191/191 offline tests.
+- `npm run test:browser`: PASS, 18/18 Chromium headless scenarios against the real app source with synthetic API/WebDAV fixtures. Coverage includes menu bounding boxes, outside/Escape/focus, container scroll, 125%/150% zoom, backup download, light/dark preference contrast, 44 px touch targets, list scroll/selection retention, opening and creating notes, and the existing save/error/draft/share/trash flows.
+- Coarse-pointer target bounds are recorded in [touch target measurements](RESPONSIVE-UI-PRODUCTION-20261029/touch-target-measurements.json): minimum visible target is 44×44 px at 390×844, 744×1133, and 1133×744.
+- `node --check public/app.js`, `node --check scripts/browser-smoke.mjs`, and `git diff --check`: PASS.
+
+The runner used Node 22.23.4 although the package requests Node 24.x; the configured Vercel builder is Node 24.x. Gemini review was unavailable because this session has no Gemini review tool/connector. No source diff, Notes, credential, or session was sent to another service. Chromium’s CSS zoom and touch emulation are not native browser-zoom/device validation. Safari, physical device, and real keyboard interactions remain untested; the existing manual iPhone/iPad checklist above still applies. No real Notes or production backup was used in browser testing.
+
+Production deployment and post-release alias/health verification will be appended after the change is merged and deployed.
